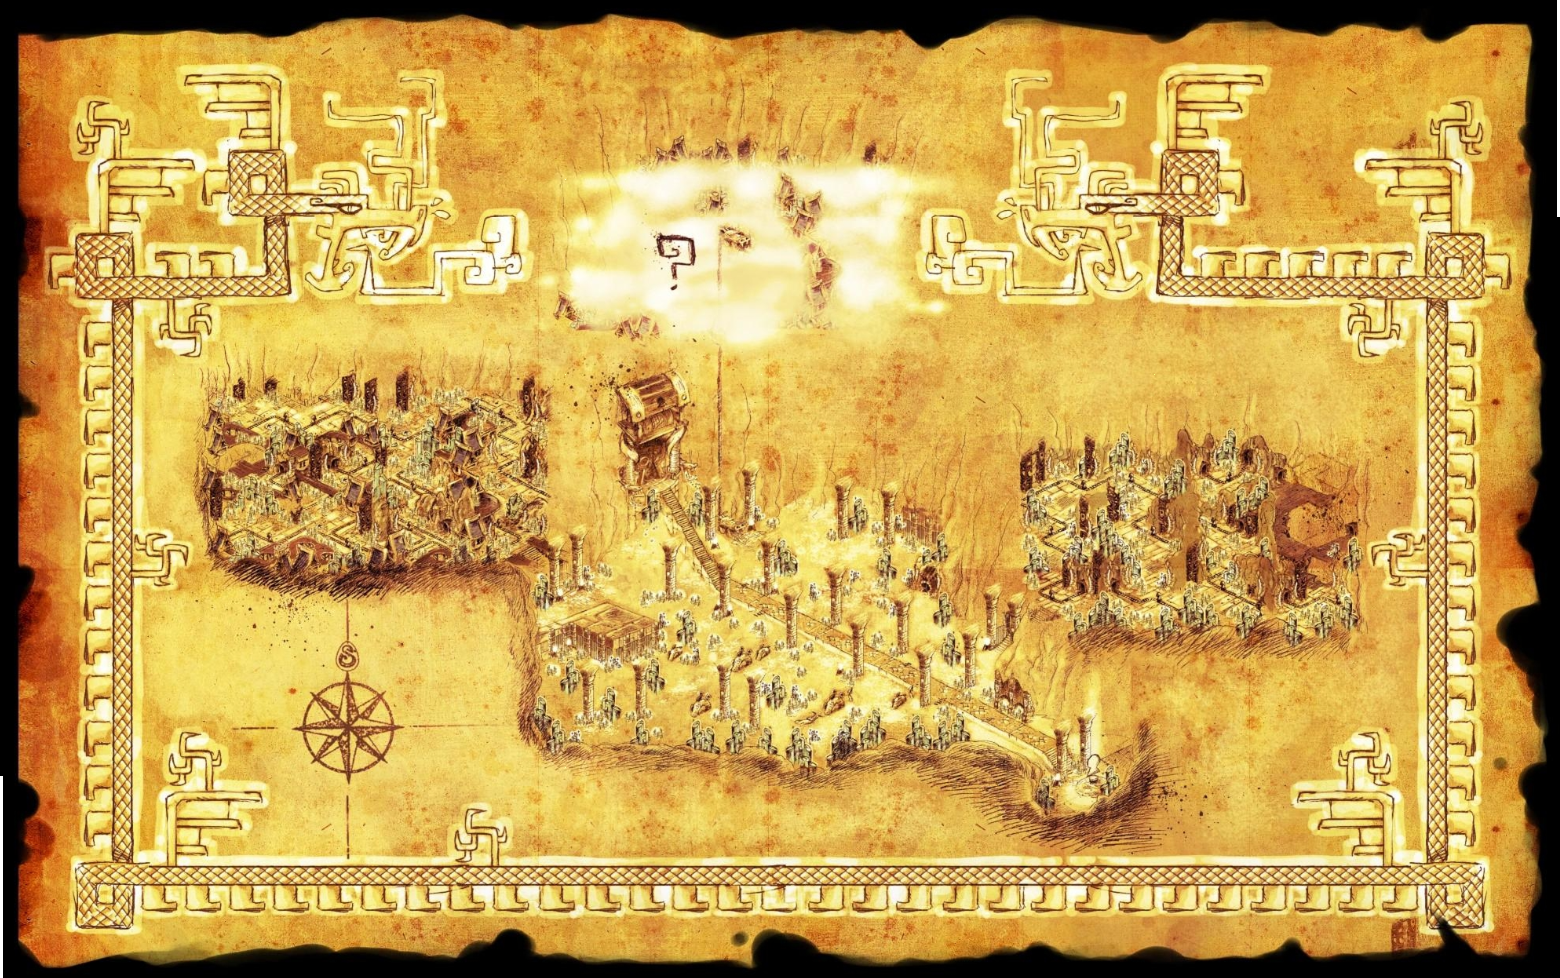
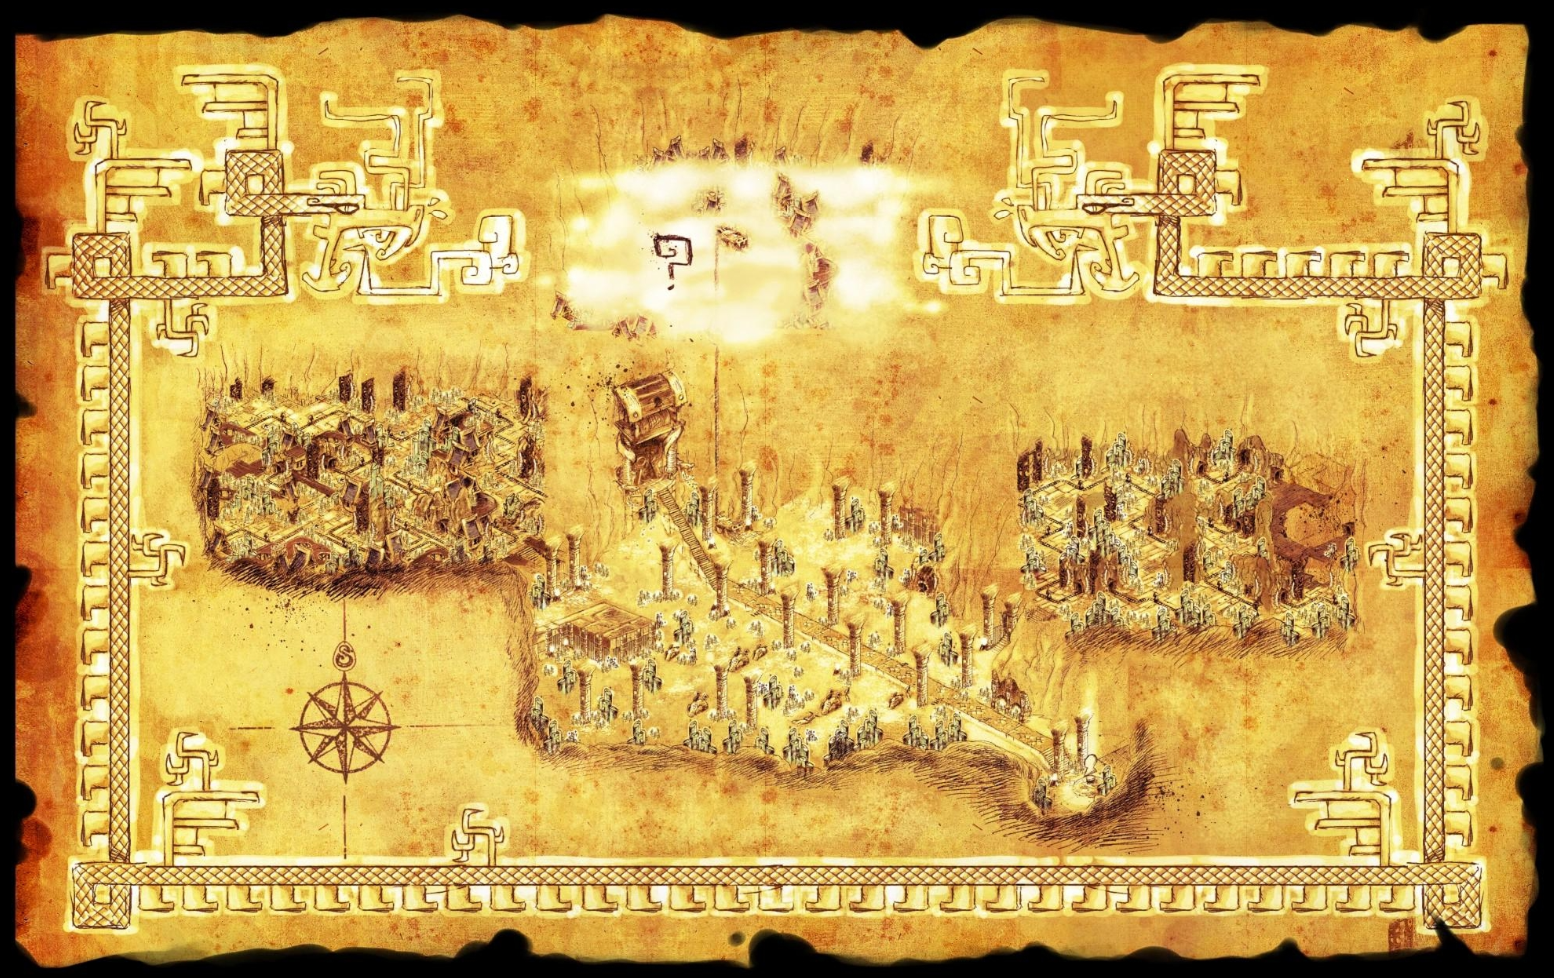
feat: add new zones and images for Srambad and Xelorium dimensions, update map configurations

diff --git a/map-app/src/constants/zones.ts b/map-app/src/constants/zones.ts
@@ -442,10 +442,153 @@ export const OSAVORA_ZONES: Zone[] = [
 ]
 
 // Zones de la Dimension Srambad
-export const SRAMBAD_ZONES: Zone[] = []
+export const SRAMBAD_ZONES: Zone[] = [
+  {
+    id: 'exemple-zone',
+    name: 'Srambad (Hauts Ténébreux)',
+    color: 'rgba(100, 150, 255, 0.3)',
+    borderColor: 'rgba(100, 150, 255, 0.8)',
+    points: [
+      { x: 7, y: -3 },
+      { x: 8, y: -2 },
+      { x: 8, y: -1 },
+      { x: 7, y: 0 },
+      { x: 5, y: 0 },
+      { x: 5, y: 1 },
+      { x: 4, y: 1 },
+      { x: 4, y: 0 },
+      { x: 5, y: 0 },
+      { x: 5, y: -2 },
+
+    ],
+    isolatedCells: [
+      { x: 9, y: -5 },  // cellule isolée
+      { x: 8, y: -4 },  // cellule isolée
+    ],
+  },
+  {
+    id: 'exemple-zone',
+    name: 'Srambad (Ruelles des Eaux-Suaires)',
+    color: 'rgba(100, 150, 255, 0.3)',
+    borderColor: 'rgba(100, 150, 255, 0.8)',
+    points: [
+      { x: 2, y: 2 },
+      { x: 3, y: 2 },
+      { x: 4, y: 1 },
+      { x: 5, y: 2 },
+      { x: 6, y: 1 },
+      { x: 7, y: 2 },
+      { x: 8, y: 3 },
+      { x: 8, y: 3 },
+      { x: 10, y: 3 },
+      { x: 8, y: 4 },
+      { x: 8, y: 5 },
+      { x: 7, y: 4 },
+      { x: 6, y: 3 },
+      { x: 3, y: 3 },
+      { x: 3, y: 4 },
+      { x: 3, y: 2 },
+
+    ],
+    isolatedCells: [
+      { x: 0, y: 0 },  // cellule isolée
+      { x: 1, y: 1 },  // cellule isolée
+      { x: 1, y: 6 },  // cellule isolée
+      { x: 2, y: 6 },  // cellule isolée
+      { x: 10, y: 4 },
+    ],
+  },
+  {
+    id: 'exemple-zone',
+    name: 'Srambad (Ruelles des Eaux-Suaires)',
+    color: 'rgba(100, 150, 255, 0.3)',
+    borderColor: 'rgba(100, 150, 255, 0.8)',
+    points: [
+      { x: 6, y: 6 },
+      { x: 7, y: 7 },
+      { x: 8, y: 6 },
+      { x: 8, y: 8 },
+      { x: 7, y: 9 },
+      { x: 4, y: 9 },
+      { x: 4, y: 8 },
+      { x: 5, y: 7 },
+
+    ],
+    isolatedCells: [
+      { x: 9, y: 6 },  // cellule isolée
+      { x: 6, y: 5 },
+
+    ],
+  },
+]
 
 // Zones de la Dimension Xelorium
-export const XELORIUM_ZONES: Zone[] = []
+export const XELORIUM_ZONES: Zone[] = [
+  {
+    id: 'exemple-zone',
+    name: 'Xélorium (Lendemains incertains)',
+    color: 'rgba(100, 150, 255, 0.3)',
+    borderColor: 'rgba(100, 150, 255, 0.8)',
+    points: [
+      { x: 4, y: -6 },
+      { x: 5, y: -5 },
+      { x: 6, y: -4 },
+      { x: 4, y: -3 },
+      { x: 1, y: -3 },
+      { x: 1, y: -4 },
+      { x: 2, y: -5 },
+    ],
+    isolatedCells: [
+      { x: 7, y: -7 },  // cellule isolée
+      { x: 6, y: -6 },  // cellule isolée
+      { x: 0, y: -5 },  // cellule isolée
+      { x: 0, y: -2 },  // cellule isolée
+      { x: 5, y: -2 },  // cellule isolée
+    ],
+  },
+  {
+    id: 'exemple-zone',
+    name: 'Xélorium (Lendemains incertains)',
+    color: 'rgba(100, 150, 255, 0.3)',
+    borderColor: 'rgba(100, 150, 255, 0.8)',
+    points: [
+      { x: 4, y: -1 },
+      { x: 5, y: 0 },
+      { x: 6, y: 1 },
+      { x: 4, y: 2 },
+      { x: 1, y: 2 },
+      { x: 1, y: 1 },
+      { x: 2, y: 0 },
+    ],
+    isolatedCells: [
+      { x: 7, y: -2 },  // cellule isolée
+      { x: 6, y: -1 },  // cellule isolée
+      { x: 0, y: 0 },  // cellule isolée
+      { x: 0, y: 3 },  // cellule isolée
+    ],
+  },
+  {
+    id: 'exemple-zone',
+    name: 'Xélorium (Lendemains incertains)',
+    color: 'rgba(100, 150, 255, 0.3)',
+    borderColor: 'rgba(100, 150, 255, 0.8)',
+    points: [
+      { x: 4, y: 4 },
+      { x: 5, y: 5 },
+      { x: 6, y: 6 },
+      { x: 4, y: 7 },
+      { x: 1, y: 7 },
+      { x: 1, y: 6 },
+      { x: 2, y: 5 },
+    ],
+    isolatedCells: [
+      { x: 7, y: 3 },  // cellule isolée
+      { x: 6, y: 4 },  // cellule isolée
+      { x: 0, y: 5 },  // cellule isolée
+      { x: 0, y: 8 },  // cellule isolée
+    ],
+  },
+]
 
 // Zones de la Dimension Ecaflipus
 export const ECAFLIPUS_ZONES: Zone[] = []

diff --git a/map-app/src/constants/index.ts b/map-app/src/constants/index.ts
@@ -114,26 +114,26 @@ export const GAME_MAPS: GameMap[] = [
     id: 'srambad',
     name: 'Dimension Srambad',
     image: '/srambad.png',
-    gridCols: 50,
-    gridRows: 50,
-    worldBounds: { minX: -20, maxX: 20, minY: -20, maxY: 20 },
+    gridCols: 23,
+    gridRows: 25,
+    worldBounds: { minX: -5, maxX: 17, minY: -9, maxY: 15 },
     minZoom: 1,
     maxZoom: 4,
     canvasWidth: 1000,
-    canvasHeight: 1000,
+    canvasHeight: 850,
     zones: SRAMBAD_ZONES,
   },
   {
     id: 'xelorium',
     name: 'Dimension Xelorium',
     image: '/xelorium.png',
-    gridCols: 50,
-    gridRows: 50,
-    worldBounds: { minX: -20, maxX: 20, minY: -20, maxY: 20 },
+    gridCols: 20,
+    gridRows: 23,
+    worldBounds: { minX: -6, maxX: 13, minY: -10, maxY: 12 },
     minZoom: 1,
     maxZoom: 4,
     canvasWidth: 1000,
-    canvasHeight: 1000,
+    canvasHeight: 850,
     zones: XELORIUM_ZONES,
   },
   {
@@ -291,4 +291,14 @@ export const DUNGEONS: Dungeon[] = [
   { id: 83, name: 'Breuil du Vénérable', level: 200, coord: { x: 6, y: 9 }, mapId: 'osavora' },
   { id: 83, name: 'Autel de la Déchireuse', level: 200, coord: { x: 12, y: 2 }, mapId: 'osavora' },
   { id: 83, name: 'Gargandyas', level: 200, coord: { x: 17, y: 8 }, mapId: 'osavora' },
+
+  //xelorium
+  { id: 83, name: 'Mégalithe de Fraktale', level: 120, coord: { x: 7, y: 3 }, mapId: 'xelorium' },
+  { id: 83, name: 'Horologium de XLII', level: 170, coord: { x: 7, y: -2 }, mapId: 'xelorium' },
+  { id: 83, name: 'Œil de Vortex', level: 200, coord: { x: 7, y: -7 }, mapId: 'xelorium' },
+
+  //srambad
+  { id: 83, name: 'Ring du Capitaine Ekarlatte', level: 130, coord: { x: 6, y: 3 }, mapId: 'srambad' },
+  { id: 83, name: 'Cave du Toxoliath', level: 180, coord: { x: 8, y: 8 }, mapId: 'srambad' },
+  { id: 83, name: 'Trône de la Cour Sombre', level: 200, coord: { x: 8, y: -4 }, mapId: 'srambad' },
 ]

diff --git a/map-app/src/components/MapCanvas.tsx b/map-app/src/components/MapCanvas.tsx
@@ -503,6 +503,9 @@ export const MapCanvas: FC<MapCanvasProps> = ({
         const mx = mouseWorld.x
         const my = mouseWorld.y
 
+        // Vérifier d'abord les cellules isolées
+        if (zone.isolatedCells?.some((c) => c.x === mx && c.y === my)) return true
+
         // Cas spécial: ligne (2 points)
         if (zone.points.length === 2) {
           const p1 = zone.points[0]
@@ -553,9 +556,6 @@ export const MapCanvas: FC<MapCanvasProps> = ({
 
         // Vérifier si la cellule est exactement sur un sommet
         if (points.some((p) => p.x === mx && p.y === my)) return true
-
-        // Vérifier si la cellule est une cellule isolée
-        if (zone.isolatedCells?.some((c) => c.x === mx && c.y === my)) return true
 
         return false
       })